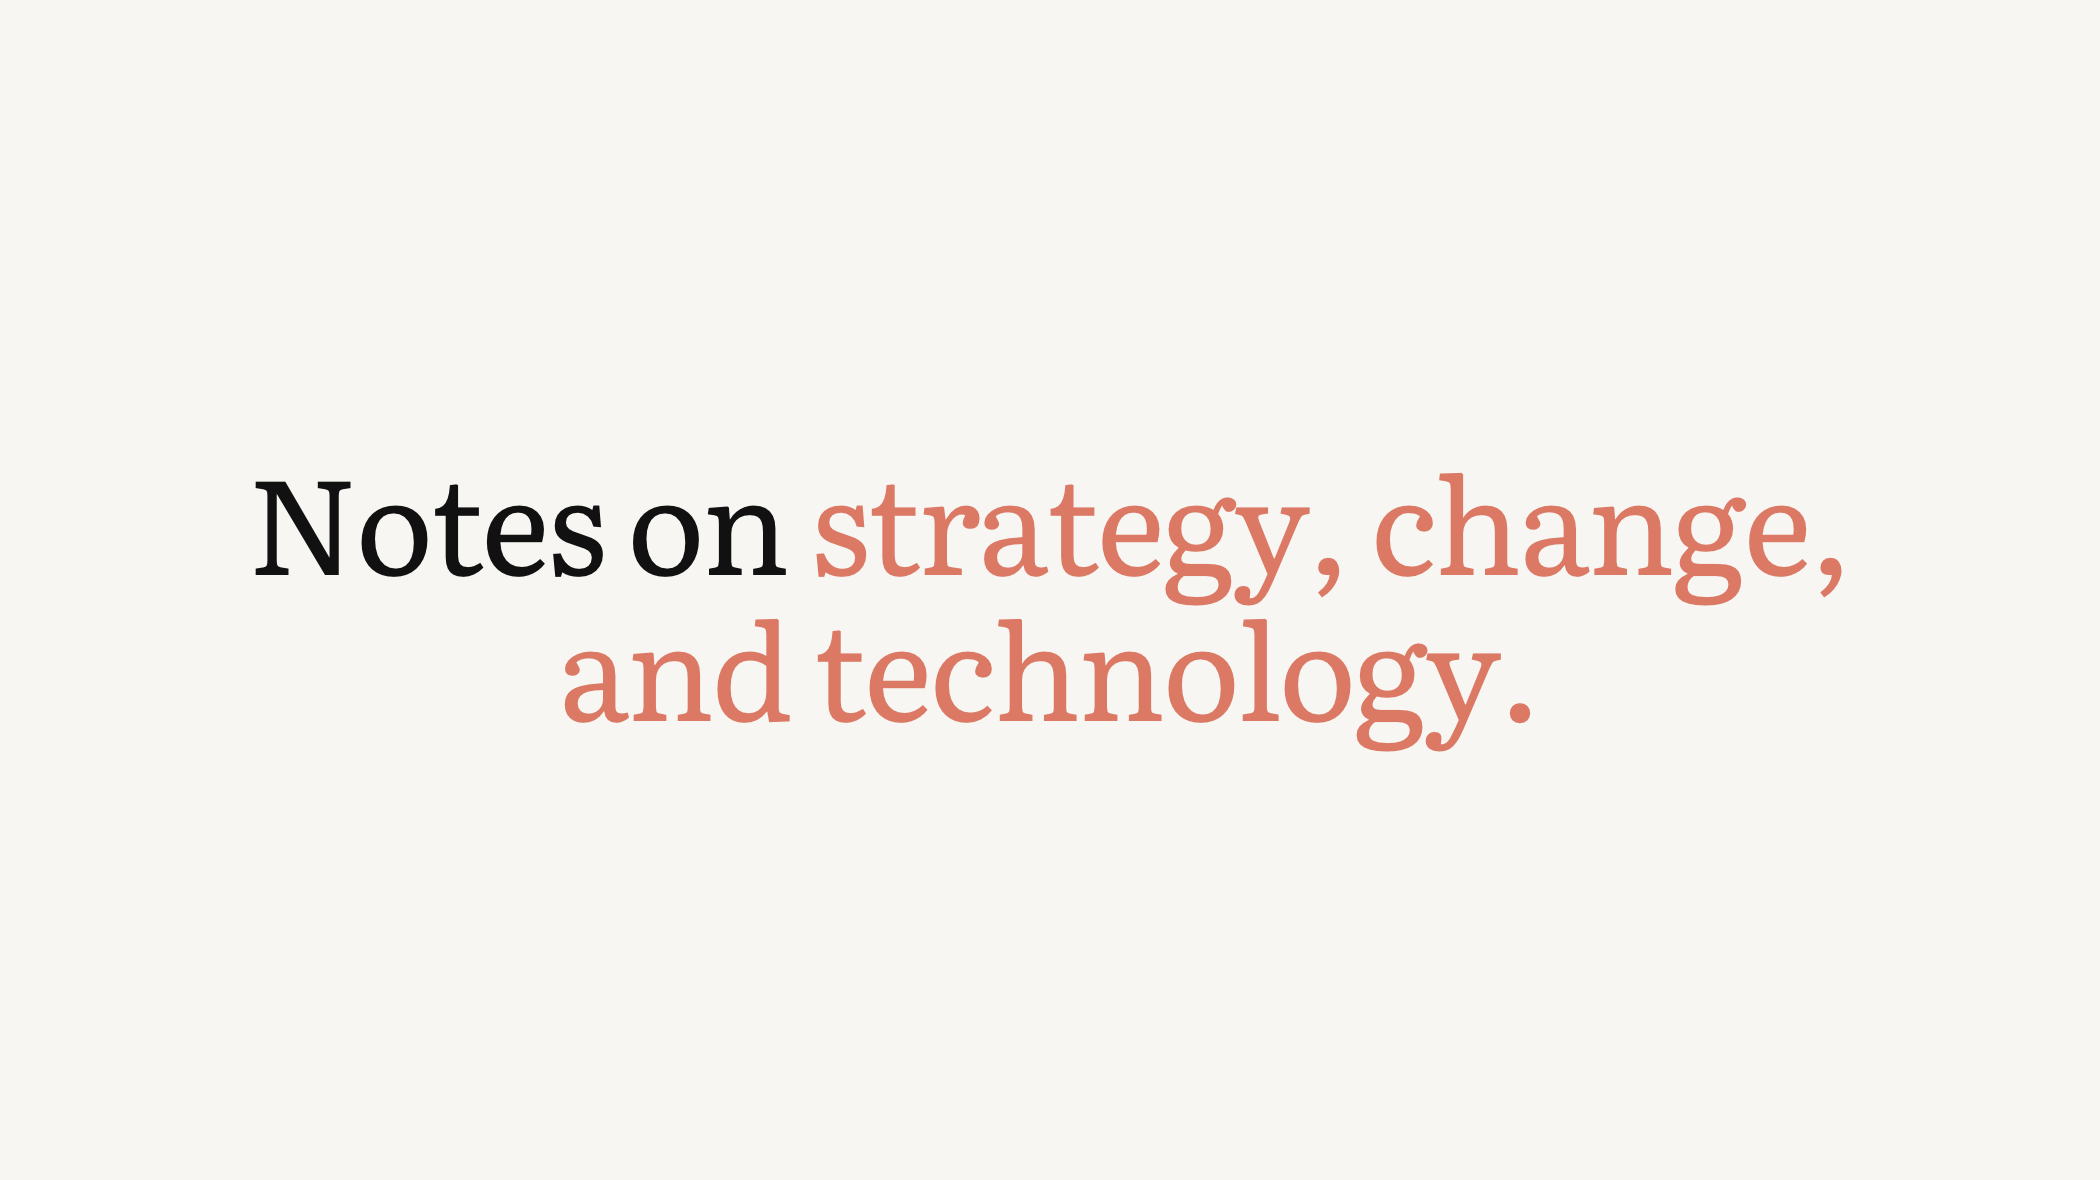
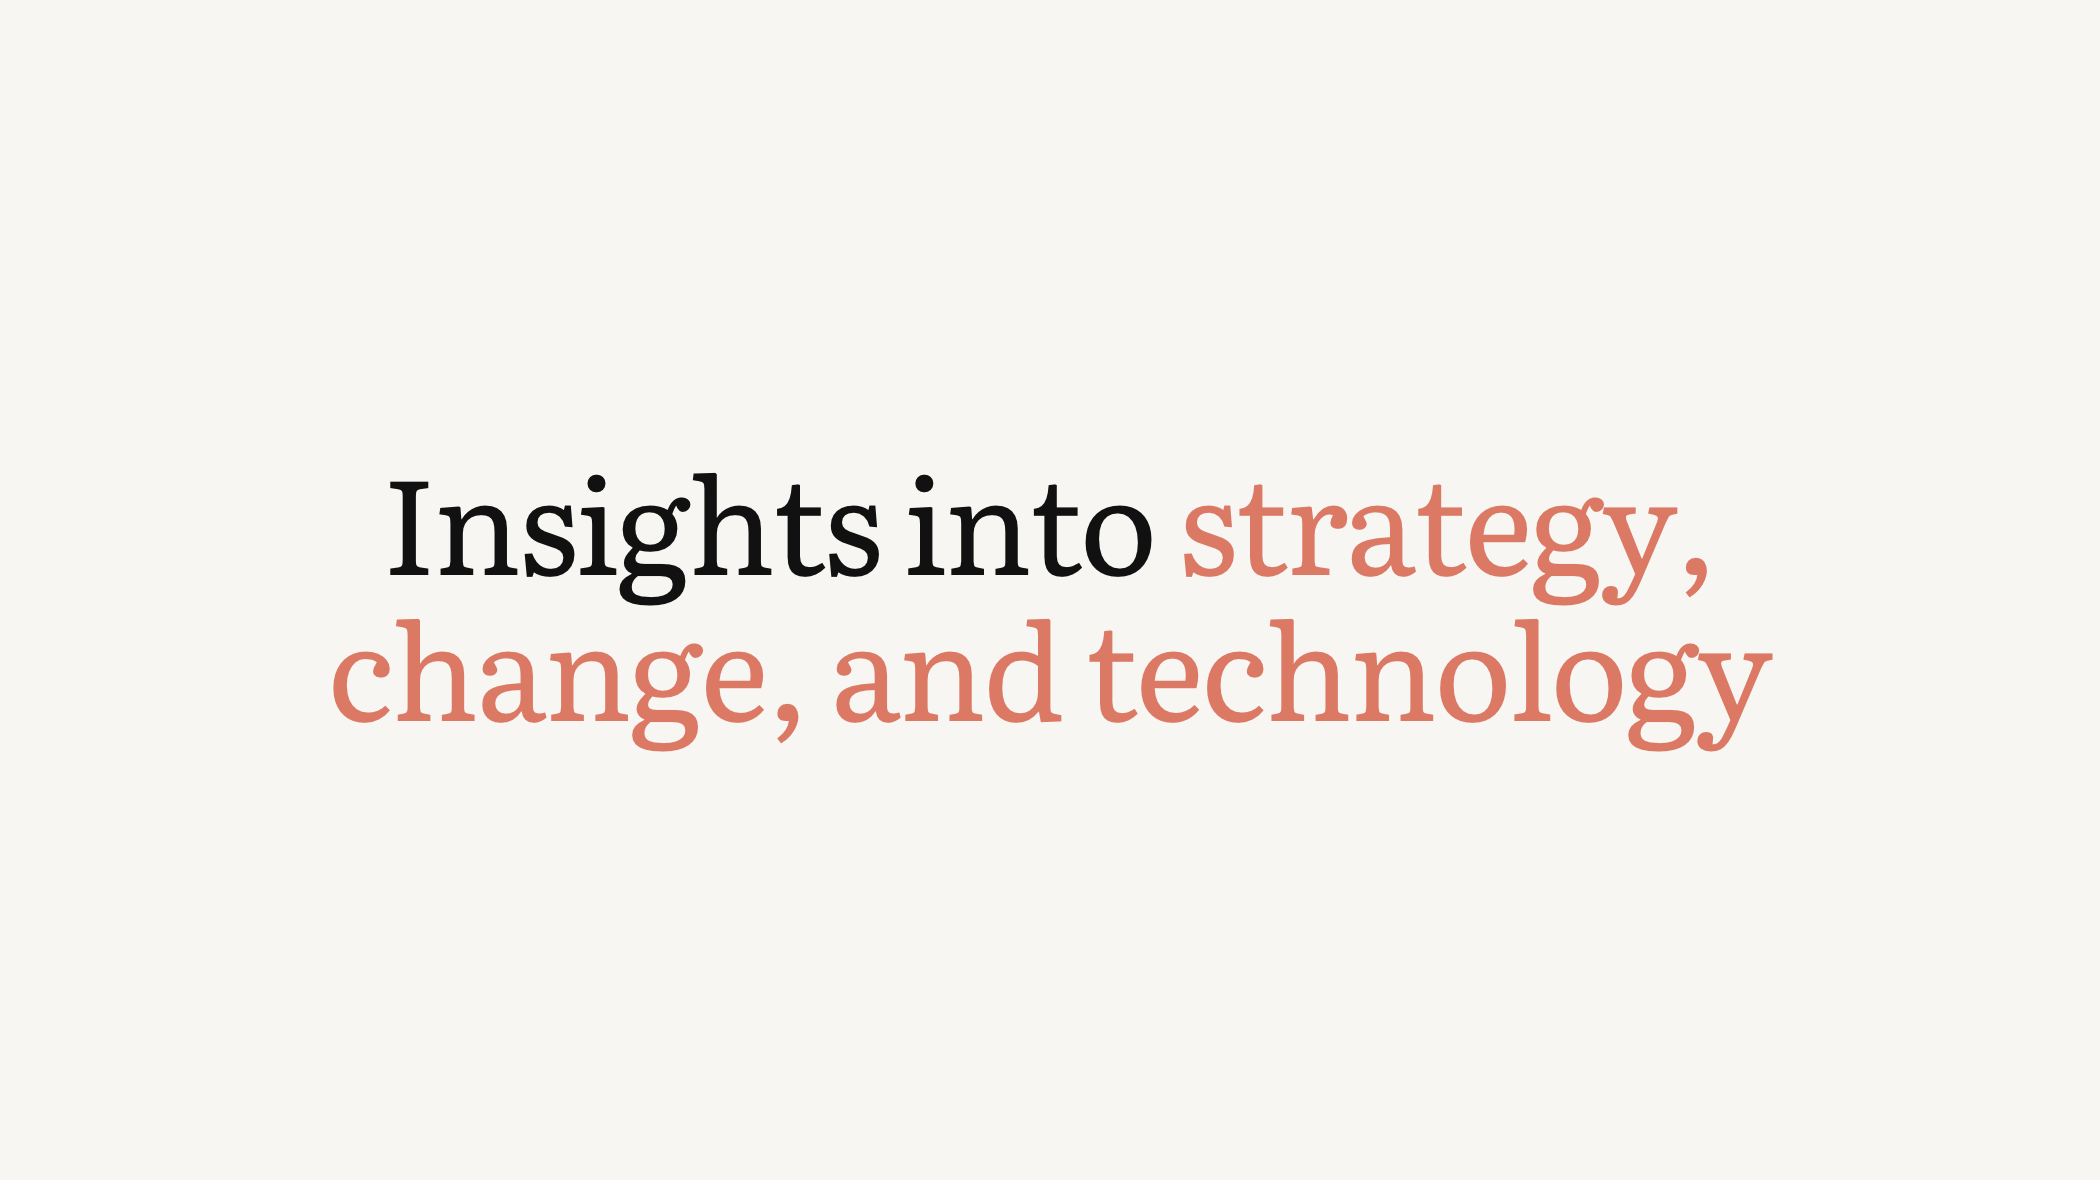
deploy: nadia-humbert-labeaumaz/nadia-humbert-labeaumaz.github.io@04386b21a9080a09ede4bc7a07805e710de01adb

Changed region(s): [[0.1238, 0.3966, 0.8976, 0.6407]]

diff --git a/index.html b/index.html
@@ -5,5 +5,5 @@
 <input type=hidden name=sitesearch value=nadiazablah.com>
 <input id=search name=q type=search placeholder="Search site" required>
 <button type=submit aria-label=Search>
-<span class="ion-search search-icon"></span></button></form></li></ul></div></nav></div></div></div></header><section class="section intro-hero" aria-labelledby=intro-heading><div class="container intro-hero-inner"><div class=intro-hero-main><p class=intro-name>Nadia Zablah</p><h1 id=intro-heading>From organizational complexity&nbsp;<br class=desktop-break>to <em>sustainable growth.</em></h1><div class=intro-profile><p class=intro-role>Business and technology executive advisor with 15 years of global experience</p></div></div></div></section><section class="about section"><div class=container><div class=section-title><h2 id=about>About me.</h2></div><div class=mt-20><div class=col-md-6><p>Hi, I’m Nadia.
+<span class="ion-search search-icon"></span></button></form></li></ul></div></nav></div></div></div></header><section class="section intro-hero" aria-labelledby=intro-heading><div class="container intro-hero-inner"><div class=intro-hero-main><p class=intro-name>Nadia Zablah</p><h1 id=intro-heading>From organizational complexity&nbsp;<br class=desktop-break>to <em>sustainable growth.</em></h1><div class=intro-profile><p class=intro-role>Strategy, operations & technology leader with 15 years of global experience</p></div></div></div></section><section class="about section"><div class=container><div class=section-title><h2 id=about>About me.</h2></div><div class=mt-20><div class=col-md-6><p>Hi, I’m Nadia.
 At 17, I moved to France, an early experience that fostered curiosity and openness to different ways of thinking.</p><p>Over the past 15 years, I&rsquo;ve lived, studied, and worked across four countries, earned an MBA and two Master of Science degrees (biochemistry & biotechnology, and computer science), become proficient in five languages, and built expertise connecting business, strategy, and technology in regulated environments.</p><p>Along the way, I founded two technology companies and a social enterprise, and helped more than 20 high-growth organizations secure funding, expand internationally, and overcome long-standing, systemic constraints in strategy and operations.</p><p>I&rsquo;m drawn to deep tech and the challenges of turning scientific and engineering advances into practical solutions. Today, I help executive teams clarify strategy and align their organizations to achieve lasting progress through advisory work and training programs.</p><a href=/#trainings class="btn btn-main mt-20">Discover my training programs</a></div><div class=col-md-6><div class="about-img sm-none"><img class=img-responsive src=/images/nadia.jpeg></div></div></div></div></section><section class="metrics section"><div class=container><div class=stats><div class=stat><strong>20+</strong><span>Companies supported</span></div><div class=stat><strong>Millions</strong><span>In funding secured</span></div><div class=stat><strong>25+</strong><span>Teams strengthened</span></div><div class=stat><strong><small>Up to</small>+100%</strong><span>Team performance improvement</span></div></div></div></section><section class="section expertise"><div class=container><div class=section-title><h2>Areas of expertise</h2></div><div class=expertise-grid><article><h3>Business Strategy</h3><p>Defined and executed strategic roadmaps for startups and scale-ups, supporting funding, growth, and market expansion.</p></article><article><h3>Operational Excellence</h3><p>Diagnosed systemic constraints, optimized cross-functional processes, and drove measurable performance gains.</p></article><article><h3>Leadership</h3><p>Led high-stakes initiatives in complex environments, aligning teams around shared priorities.</p></article><article><h3>Technology</h3><p>Designed scalable solutions to support growth, from cloud platforms to organisation-wide digital transformations.</p></article><article><h3>Entrepreneurship</h3><p>Founded two technology ventures and a social enterprise, supporting leaders and communities navigating complexity.</p></article><article><h3>Change Management</h3><p>Led organizational transformations in scale-ups, turning systemic challenges into growth opportunities.</p></article></div></div></section><section class="clients section"><div class=container><div class=section-title><h2>Trusted by companies including</h2></div><div class=client-grid><article><div class=logo><img src=/images/clients/square/enedis.png alt=Enedis></div><div><h3>Enedis</h3><p>Lyon, France</p><div class=industry>Electricity distribution</div></div></article><article><div class=logo><img src=/images/clients/square/sanofi-pasteur.png alt="Sanofi Pasteur"></div><div><h3>Sanofi Pasteur</h3><p>Lyon, France</p><div class=industry>Biopharmaceuticals & vaccines</div></div></article><article><div class=logo><img src=/images/clients/square/once-for-all.png alt="Once for All"></div><div><h3>Once for All</h3><p>Lyon, France</p><div class=industry>Compliance & supply chain software</div></div></article><article><div class=logo><img src=/images/clients/square/bruized.png alt=Bruized></div><div><h3>Bruized</h3><p>Toronto, Canada</p><div class=industry>Sustainable food & upcycling</div></div></article><article><div class=logo><img src=/images/clients/square/kind-karma.png alt="Kind Karma"></div><div><h3>Kind Karma</h3><p>Toronto, Canada</p><div class=industry>Jewelry & social enterprise</div></div></article><article><div class=logo><img src=/images/clients/square/biomerieux.png alt=bioMérieux></div><div><h3>bioMérieux</h3><p>Lyon, France</p><div class=industry>In vitro diagnostics</div></div></article><article><div class=logo><img src=/images/clients/square/atmb.png alt=ATMB></div><div><h3>ATMB</h3><p>France</p><div class=industry>Transport infrastructure</div></div></article><article><div class=logo><img src=/images/clients/square/avem.png alt=Avem></div><div><h3>Avem</h3><p>Lyon, France</p><div class=industry>Payment solutions & services</div></div></article><article><div class=logo><img src=/images/clients/square/april.png alt=April></div><div><h3>April</h3><p>Lyon, France</p><div class=industry>Insurance & brokerage</div></div></article><article><div class=logo><img src=/images/clients/square/whirika-consulting.png alt="Whirika Consulting"></div><div><h3>Whirika Consulting</h3><p>New Zealand</p><div class=industry>Environmental & sustainability consulting</div></div></article></div></div></section><section class="trainings section" id=trainings><div class=container><div class=section-title><h2>Training courses</h2></div><div class=training-grid><article class=training-card><div class=category><ul class=list-inline><li><a href=/topics/technology-ai/>Technology & AI</a></li><li><a href=/topics/strategic-management/>Strategic Management</a></li></ul></div><h3><a href=/trainings/introduction-security-compliance/>Introduction to Security and Compliance</a></h3><ul class=promises><li>See the full picture of your compliance and security risks.</li><li>Identify what to handle first.</li><li>Create a clear plan to move forward with your team.</li></ul></article><article class=training-card><div class=category><ul class=list-inline><li><a href=/topics/organizational-change/>Organizational Change</a></li></ul></div><h3><a href=/trainings/managing-change/>Leading Sustainable Organizational Change</a></h3><ul class=promises><li>Secure your teams’ buy-in for transformation.</li><li>Turn employee resistance into a driving force.</li><li>Make change last over time.</li></ul></article><article class=training-card><div class=category><ul class=list-inline><li><a href=/topics/high-performing-teams/>High-Performing Teams</a></li></ul></div><h3><a href=/trainings/high-performing-teams/>Building High-Performing Teams</a></h3><ul class=promises><li>Build the foundations for team success.</li><li>Motivate and retain your top engineering talent.</li><li>Align your teams around a clear strategic vision.</li></ul></article><article class=training-card><div class=category><ul class=list-inline><li><a href=/topics/strategic-management/>Strategic Management</a></li></ul></div><h3><a href=/trainings/strategic-plan/>Designing a Strategic Plan</a></h3><ul class=promises><li>Deepen your understanding of your business landscape.</li><li>Define a clear strategic direction with a realistic plan.</li><li>Rally stakeholders around the plan for effective execution.</li></ul></article><article class=training-card><div class=category><ul class=list-inline><li><a href=/topics/technology-ai/>Technology & AI</a></li></ul></div><h3><a href=/trainings/leveraging-ai-technologies/>Leveraging AI Technologies</a></h3><ul class=promises><li>Discover the real-world opportunities AI can unlock.</li><li>Learn how to turn them into a competitive edge.</li><li>Integrate key technologies into your strategic roadmap.</li></ul></article><article class=training-card><div class=category><ul class=list-inline><li><a href=/topics/economics-finance/>Economics & Finance</a></li></ul></div><span class=badge>Coming soon</span><h3><a href=/trainings/finance-fundamentals/>Finance Fundamentals for Tech Leaders</a></h3><ul class=promises><li>Steer your startup’s finances with confidence.</li><li>Align fundraising with your business needs.</li><li>Manage costs and risks to secure long-term growth.</li></ul></article><article class=training-card><div class=category><ul class=list-inline><li><a href=/topics/organizational-change/>Organizational Change</a></li><li><a href=/topics/strategic-management/>Strategic Management</a></li></ul></div><span class=badge>Coming soon</span><h3><a href=/trainings/align-with-core-competencies/>Realign your Business Strategically</a></h3><ul class=promises><li>Design a strategic roadmap tailored to your team’s strengths.</li><li>Build agile, empowered, high-performing teams.</li><li>Focus your efforts on what truly moves the needle.</li></ul></article></div></div></section><section class="section recommendations-section"><div class=container><div class=section-title><h2>Recommendations</h2></div><div class=masonry><figure class=recommendation><blockquote><p>"I worked with Nadia during the course Social Entrepreneurship in Schulich MBA. I have to say that Nadia is the best person I ever want to work with in a team. She is passionate about social enterprise and doing good to society; she is capable of looking at the bigger picture to ensure the team stays on track during the process and reaches our goals successfully; she is committed to delivering the best quality work by doing tons of primary research and secondary research; and she is very insightful when analyzing the data (absolutely super strong in analytical skills). Great team player!"</p></blockquote><figcaption><strong>Li Jiang</strong><span>Impact Fellow - SVX</span></figcaption></figure><figure class=recommendation><blockquote><p>"I highly recommend Nadia. She is the brightest woman I have ever met. She is very focused on learning and mastering new subjects, even those outside her expertise fields. Nadia has also developed a strong team spirit and a very sharp understanding of project management, customer expectations, and results. Hire her for her experience, technical and methodological knowledge, but above all, for her vision, potential, and personality."</p></blockquote><figcaption><strong>Nicolas Trincal</strong><span>Branch Manager - Group Creative Lyon</span></figcaption></figure><figure class=recommendation><blockquote><p>"I have spent one year working with Nadia and I highly recommend her: very talented with solid technical as well as organizational skills, involved in her job and hard worker, she is also someone you will love to work with, owing to her kindness and enthusiasm. I would definitely work again with her if I had the opportunity!"</p></blockquote><figcaption><strong>Ludovic Butin</strong><span>Data Engineer - Malt</span></figcaption></figure><figure class=recommendation><blockquote><p>"I worked with Nadia on a strategic and complex project for a large French energy company, where I was lead technical architect. Nadia excels in teamwork on projects where communication skills and agile approaches are essential to success. She has demonstrated a great ability to take on complex issues, from a technical, human and organizational point of view. She has demonstrated self-motivation and a great ability to collaborate to quickly move forward on the topics assigned to her. Her ability to solve complex problems, to be a force of proposal, but also her humanity were essential assets for the success of the project. It is for all these elements that I recommend Nadia. It would be with great pleasure that I will work with her again."</p></blockquote><figcaption><strong>Grégory Prince</strong><span>Lead Senior Architect - Equancy</span></figcaption></figure><figure class=recommendation><blockquote><p>"I taught Nadia for two papers whilst she was enrolled for an MBA at the University of Otago. Nadia was able to apply both her broad business knowledge and experience and more specialized areas of expertise within the fields of marketing and strategy to solve challenging business problems to an exceptionally high standard."</p></blockquote><figcaption><strong>Tony Garry</strong><span>MBA Director - University of Otago</span></figcaption></figure><figure class=recommendation><blockquote><p>"It was a pleasure to work with Nadia. She is a very communicative and positive person. She has very good human and technical skills and is always seeking to get the best of herself as well as help others do so. It would be a pleasure to collaborate again. Reach out to her - you won&rsquo;t be disappointed."</p></blockquote><figcaption><strong>Albéric Martel</strong><span>Freelance Software Developer</span></figcaption></figure><figure class=recommendation><blockquote><p>"Nadia demonstrated an exceptional ability to master a new environment and new technologies. After a few weeks, she became an essential part of the project. Intellectually brilliant, Nadia adapts perfectly to her entire ecosystem, clients, colleagues, managers."</p></blockquote><figcaption><strong>Erwan Eveno</strong><span>Director of Information Technology - Enedis</span></figcaption></figure><figure class=recommendation><blockquote><p>"I had the chance to work with Nadia on Linky (Smart metering device), a major project at Enedis, french main power grid operator. She is a serious and hard working person, not afraid to take on various and complex topics. A pleasant and committed person to work with."</p></blockquote><figcaption><strong>Guillaume Darmont</strong><span>Principal Engineer - Malt</span></figcaption></figure><figure class=recommendation><blockquote><p>"I had the chance to work with Nadia for more than two years on a big project. Nadia significantly contributed to the project&rsquo;s success: she took on great mentoring, leadership, and coaching responsibilities. I am also delighted to say that she is an excellent teammate, a kind person and an ideal colleague."</p></blockquote><figcaption><strong>Mohamed Elbouzaidi</strong><span>Lead Developer - Norsys</span></figcaption></figure><figure class=recommendation><blockquote><p>"I had the pleasure of teaching Nadia on the MBA HRM course. Nadia is an engaged learner and someone who is willing to critically evaluate people management practices so that new and better ways of doing things can be explored. High quality work was always produced as a result of discretionary effort, great capability and a consistent focus on learning."</p></blockquote><figcaption><strong>Liz Gordon</strong><span>Learning and Development Facilitator - Lg Individual</span></figcaption></figure><figure class=recommendation><blockquote><p>"In terms of communication, Nadia is excellent in both written and verbal forms. She is a well-mannered and pleasant student, with a relaxed and independent approach to learning. Nadia is more than capable of rising to a challenge and succeeding in making the most of every opportunity. All things considered, Nadia is a fully rounded, mature individual, with a talent and determination that will ensure success wherever her career takes her next."</p></blockquote><figcaption><strong>Dr Steven Tucker</strong><span>Senior Lecturer - University of Aberdeen</span></figcaption></figure><figure class=recommendation><blockquote><p>"Nadia is passionate about her work and committed. Always driven by the desire to learn and understand in order to find quality solutions. In terms of soft skills, it has always been a pleasure to work together."</p></blockquote><figcaption><strong>Aude Lemar-Verrier</strong><span>Product Owner - Fluid Topics</span></figcaption></figure></div></div></section><footer class="footer bg-gray"><div class=container><div class=row><div class=col-md-12><div class=footer-container><div class="footer-menu links"><h4>Navigation</h4><ul><li><a href=/>Home</a></li><li><a href=/experience>Experience</a></li><li><a href=/research>Research</a></li><li><a href=/trainings>Trainings</a></li><li><a href=/essays>Essays</a></li><li><a href=/contact>Contact</a></li></ul></div><div class="footer-menu links topics"><h4>Topics</h4><ul><li><a href=/topics/economics-finance/>Economics & Finance</a></li><li><a href=/topics/high-performing-teams/>High-Performing Teams</a></li><li><a href=/topics/organizational-change/>Organizational Change</a></li><li><a href=/topics/strategic-management/>Strategic Management</a></li><li><a href=/topics/technology-ai/>Technology & AI</a></li></ul></div><div class="footer-menu socials"><h4>Socials</h4><ul><li><a href=https://www.linkedin.com/in/nadia-zablah/ target=_blank><i class=ion-social-linkedin-outline></i></a></li><li><a href="https://scholar.google.com/citations?user=SHVxjEIAAAAJ" target=_blank><i class=ion-university></i></a></li><li><a href=https://github.com/nadiazablah target=_blank><i class=ion-social-github-outline></i></a></li><li><a href=https://twitter.com/nadiazablah target=_blank><i class=ion-social-twitter-outline></i></a></li></ul></div></div><p class=copyright>© 2015-2026 Nadia Zablah<br><span class=disclaimer>All product names, logos, and brands are property of their respective owners.</span></p></div></div></div></footer><script src=/plugins/jquery/jquery.min.js></script><script src=/plugins/bootstrap/js/bootstrap.min.js></script><script src=/plugins/slick/slick.min.js></script><script src=/plugins/magnific-popup/magnific-popup.min.js></script><script src=/plugins/shuffle/shuffle.min.js></script><script src=/plugins/google-map/gmap.js defer></script><script src=/js/script.min.js></script></body></html>
